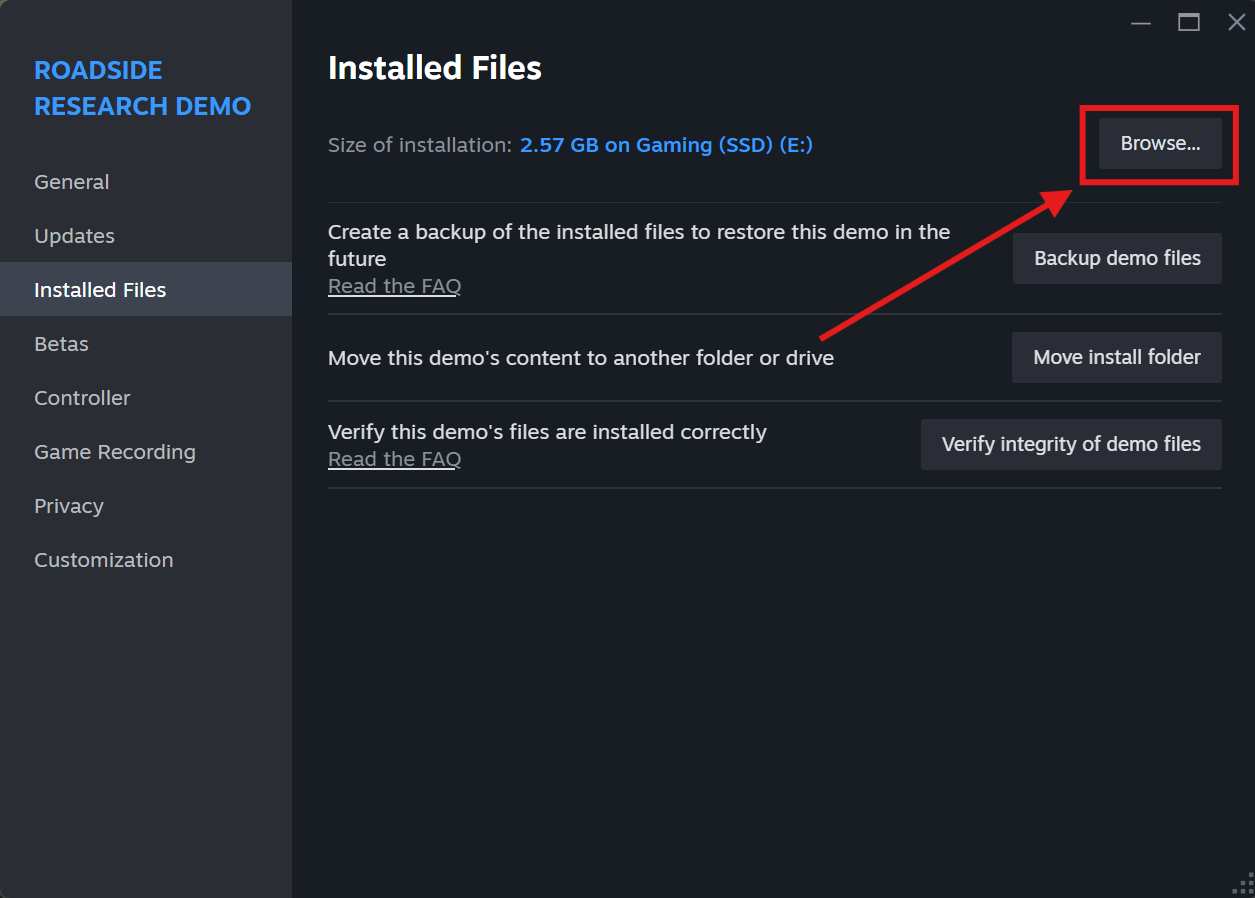
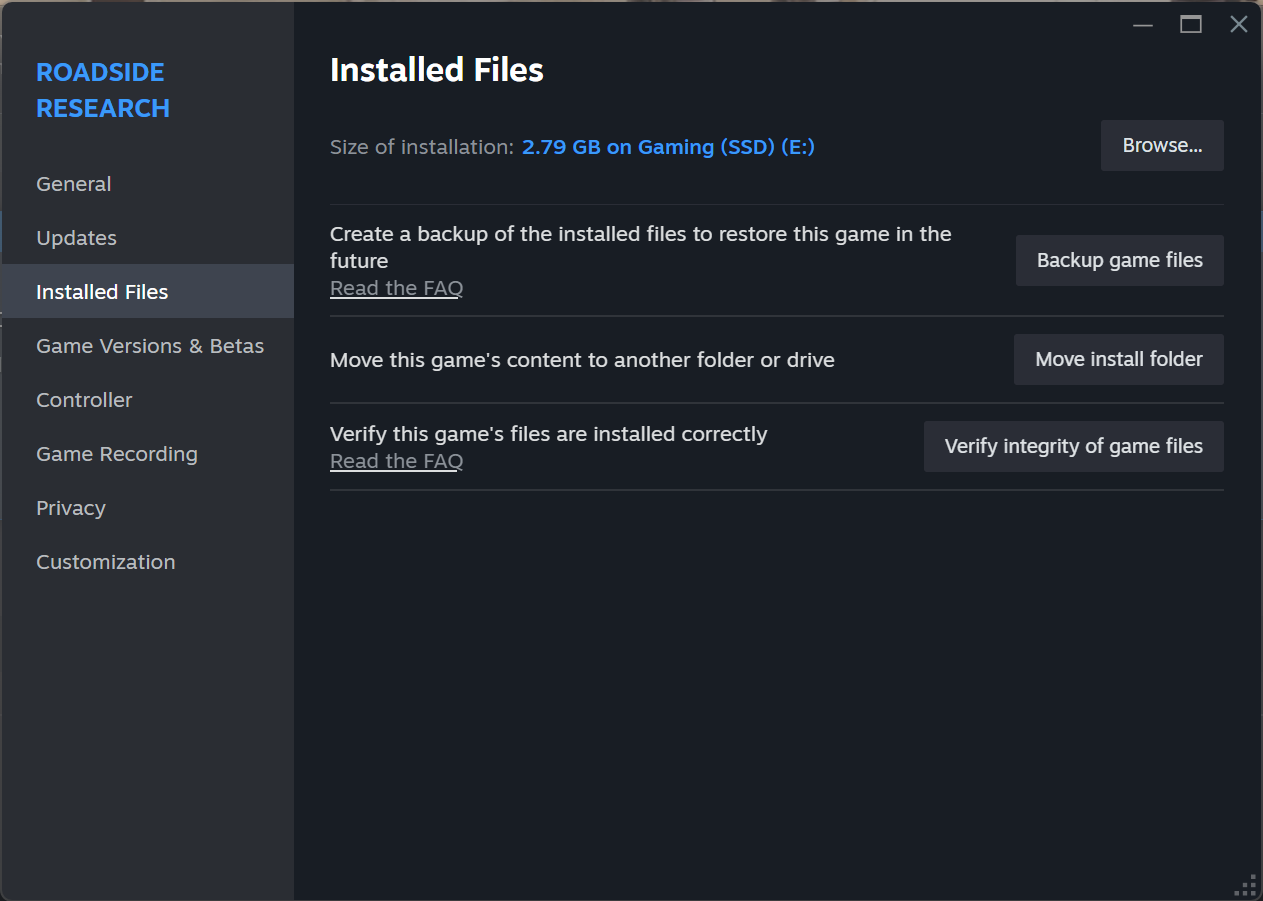
Update README

diff --git a/README.md b/README.md
@@ -1,11 +1,8 @@
 # StreamSideResearch
 
-StreamSideResearch is a BepInEx Unity mod for the Steam game (demo), [Roadside Research](https://store.steampowered.com/app/3911640/Roadside_Research_Demo/).
+StreamSideResearch is a MelonLoader Unity mod for the Steam game, [Roadside Research](https://store.steampowered.com/app/3643170/Roadside_Research/).
 
 Its primary focus is on Twitch streamers who wish to add an element of interactivity with their audience, by allowing Twitch chatters to appear in the game, either as agents or customers.
-
-> [!Note]
-> If you are a user that just cares about the mod and not how it was developed, feel free to skip the “How It Works” section, unless that sounds of interest to you!
 
 ## Table of Contents
 
@@ -16,16 +13,16 @@ Its primary focus is on Twitch streamers who wish to add an element of interacti
 
 ## Prerequisites
 
-* [Roadside Research Demo](https://store.steampowered.com/app/3911640/Roadside_Research_Demo/)
-* [BepInEx Stable (not Bleeding Edge)](https://docs.bepinex.dev/articles/user_guide/installation/index.html)
+* [Roadside Research](https://store.steampowered.com/app/3643170/Roadside_Research/)
+* [MelonLoader](https://melon-loader.com/#download)
 
 ## Getting Started
 
-Before installing the mod, [install BepInEx](#prerequisites) for Roadside Research and run the game. Once the game loads and the main menu appears, close the game.
+Before installing the mod, install [MelonLoader](#prerequisites), preferably using the official installer found on MelonLoader's website. Once MelonLoader has installed, run the game once, and wait for the main menu to appear before closing the game.
 
-Download the latest version of StreamSideResearch from our [Releases page](https://github.com/ReservedKeyword/StreamSideResearch/releases), drag-and-dropping `StreamSideResearch.dll` and _all its accompanying dependencies_ into the `BepInEx/plugins` directory.
+Download the latest version of StreamSideResearch from our [Releases page](https://github.com/ReservedKeyword/StreamSideResearch/releases), and drag-and-drop `StreamSideResearch-x.x.x.dll` into the `Mods` directory.
 
-For reference, if you right-click Roadside Research Demo in Steam, click Properties, then click on Installed Files, you should see similar to the following image. In this image, click on "Browse..." and you File Explorer will open to your game's Steam directory.
+For reference, if you right-click Roadside Research in Steam, click Properties, then click on Installed Files, you should see similar to the following image. In this image, click on "Browse..." and you File Explorer will open to your game's Steam directory.
 
 ![Steam Game Location](./images/find-game-location.png)
 
@@ -35,80 +32,38 @@ Proceed to the next section in this document to learn how to configure the mod!
 
 ## Configuration
 
-The configuration file can be found in your game's `BepInEx/config` directory, with the name `StreamSideResearch.cfg`.
+The configuration file can be found in your game's `UserData` directory, with the name `StreamSideResearch.cfg`.
 
-The path will look similar to `/path/to/game/BepInEx/config/StreamSideResearch.cfg`, where `/path/to/game` is the path to the Roadside Research Demo game directory. (See image above on how to locate where the game was downloaded.)
-
-![Steam Game Location](./images/find-config-location.png)
+The path will look similar to `/path/to/game/UserData/StreamSideResearch.cfg`, where `/path/to/game` is the path to the Roadside Research game directory. (See image above on how to locate where the game was downloaded.)
 
 The full configuration file should look similar to the following:
 
-```
-## Settings file was created by plugin StreamSideResearch v1.0.0
-## Plugin GUID: StreamSideResearch
+```toml
+[Twitch]
+# Comma-separated list of chatters whose messages are not processed
+BlocklistedChatters = "Fossabot,StreamElements"
+# Twitch channel to listen for messages in
+ChannelName = "ReservedKeyword"
+# Chat command to register chatter's intent to be an agent in game
+MessageAgentCommand = "!agent"
+# Chat command to register chatter's intent to be a customer in game
+MessageCustomerCommand = "!customer"
+# If true, an NPC that spawns without chatters in queue with a preference toward their body type will not have a name attached
+StrictBodyPreference = false
+# Maximum number of unique chatters in queue
+QueueSize = 200
 
-[General]
-
-## If true, can use hotkeys to cheat for debugging/testing mod implementation.
-# Setting type: Boolean
-# Default value: false
-Enable Cheats = false
-
-[Over Head UI]
-
-## Defines the vertical offset text should appear above an NPC's head.
-# Setting type: Single
-# Default value: 0.4
-Height Offset = 0.4
-
-## Defines the text size above an NPC's head.
-# Setting type: Single
-# Default value: 24
-Text Font Size = 24
-
-## Defines the text outline width above an NPC's head.
-# Setting type: Single
-# Default value: 0.8
-Text Outline Width = 0.8
-
-[Twitch Integration]
-
-## A comma-separated list of chatter usernames whose message will not process.
-# Setting type: String
-# Default value: 
-Blocklisted Chatters = 
-
-## The Twitch channel to listen for messages in.
-# Setting type: String
-# Default value: ReservedKeyword
-Channel Name = ReservedKeyword
-
-## A unique chat command, like !agent, that registers a chatter's intent to be an in-game agent.
-# Setting type: String
-# Default value: !agent
-Message (Agent) Command = !agent
-
-## A unique chat command, like !customer, that registers a chatter's intent to be an in-game customer.
-# Setting type: String
-# Default value: !customer
-Message (Customer) Command = !customer
-
-## If true, an NPC that spawns that has no chatters with a preference toward their body type will not have a name attached.
-# Setting type: Boolean
-# Default value: false
-Strict Body Preference = true
-
-## A weight (higher than 1.0) that makes subscribers more likely to be chosen. (For example, 1.2 means subscribers are 20% more likely to be chosen.)
-# Setting type: Double
-# Default value: 1.2
-Subscriber Weight = 1.2
-
-## The limit of combined, **unique** chatters to keep in the queue. Any chatters above this limit will not be added!
-# Setting type: Int32
-# Default value: 200
-Queue Size = 200
+[UI]
+# Vertical offset text appears above NPC's head
+HeightOffset = 0.38
+# Font size of text shown above NPC's head
+TextFontSize = 20.0
+# Outline width of text shown above NPC's head
+TextOutlineWidth = 0.8
+# If true, name tags will use same color as chatter in Twitch
+UseTwitchColors = false
 ```
 
 ## Questions?
 
-If you have any questions, feel free to put them in [GitHub Issues](https://github.com/ReservedKeyword/StreamSideResearch/issues) or by email at [contact@reservedkeyword.com](mailto:contact@reservedkeyword.com)
+If you have any questions, feel free to put them in [GitHub Issues](https://github.com/ReservedKeyword/StreamSideResearch/issues) or by email at [contact@reservedkeyword.com](mailto:contact@reservedkeyword.com).
